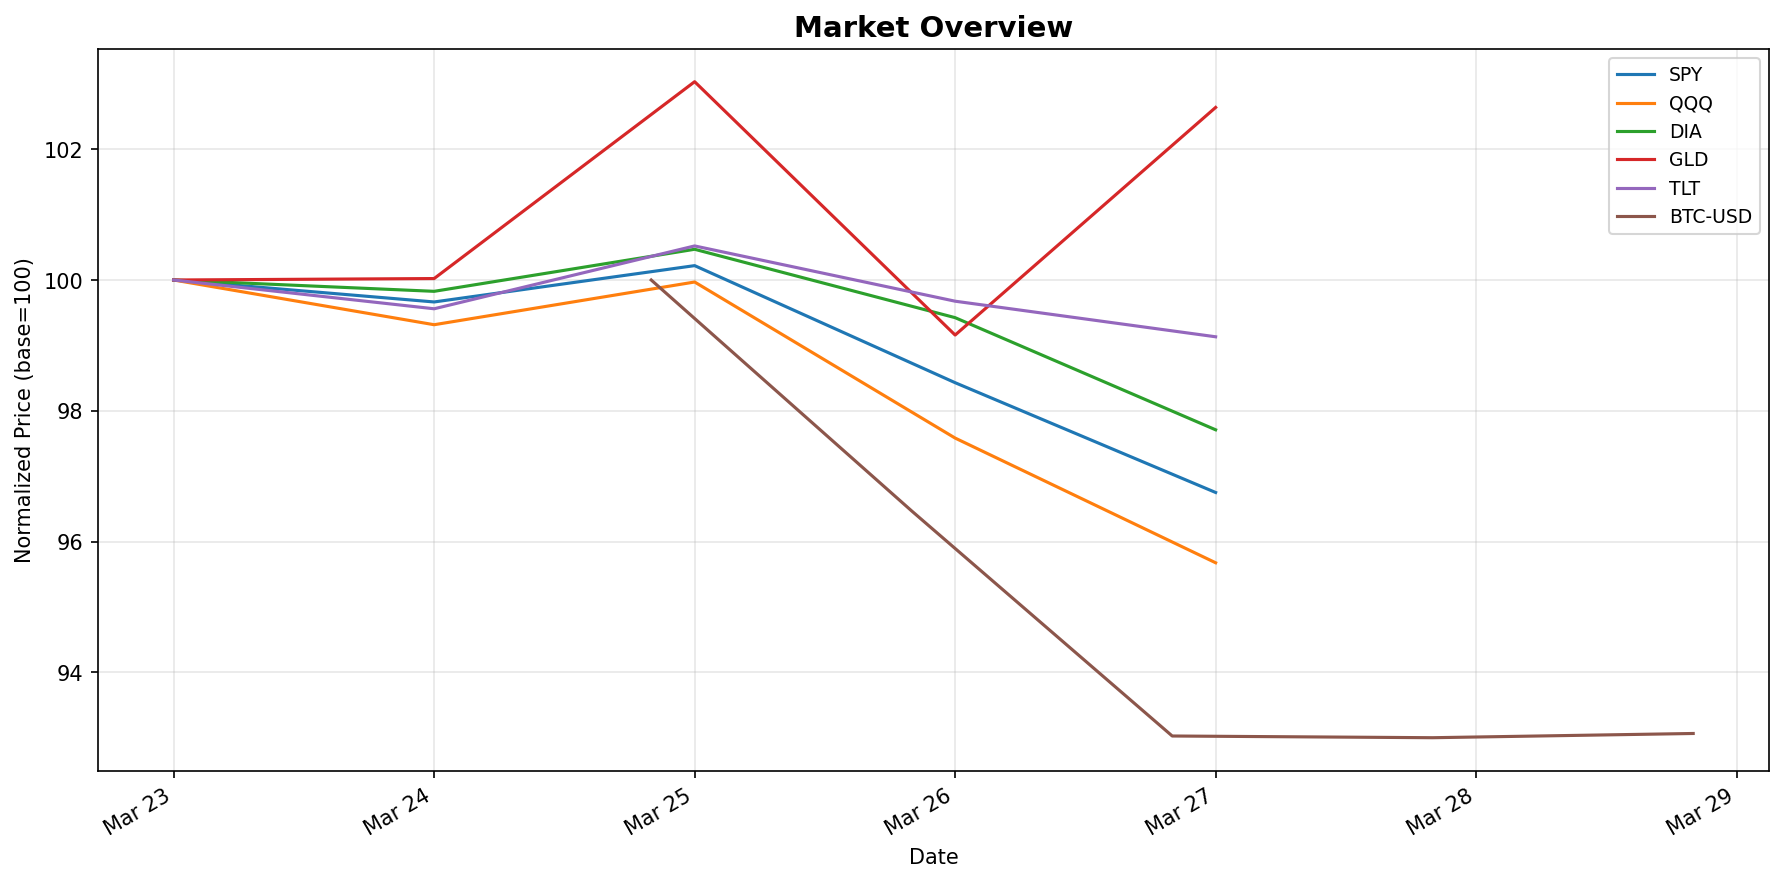
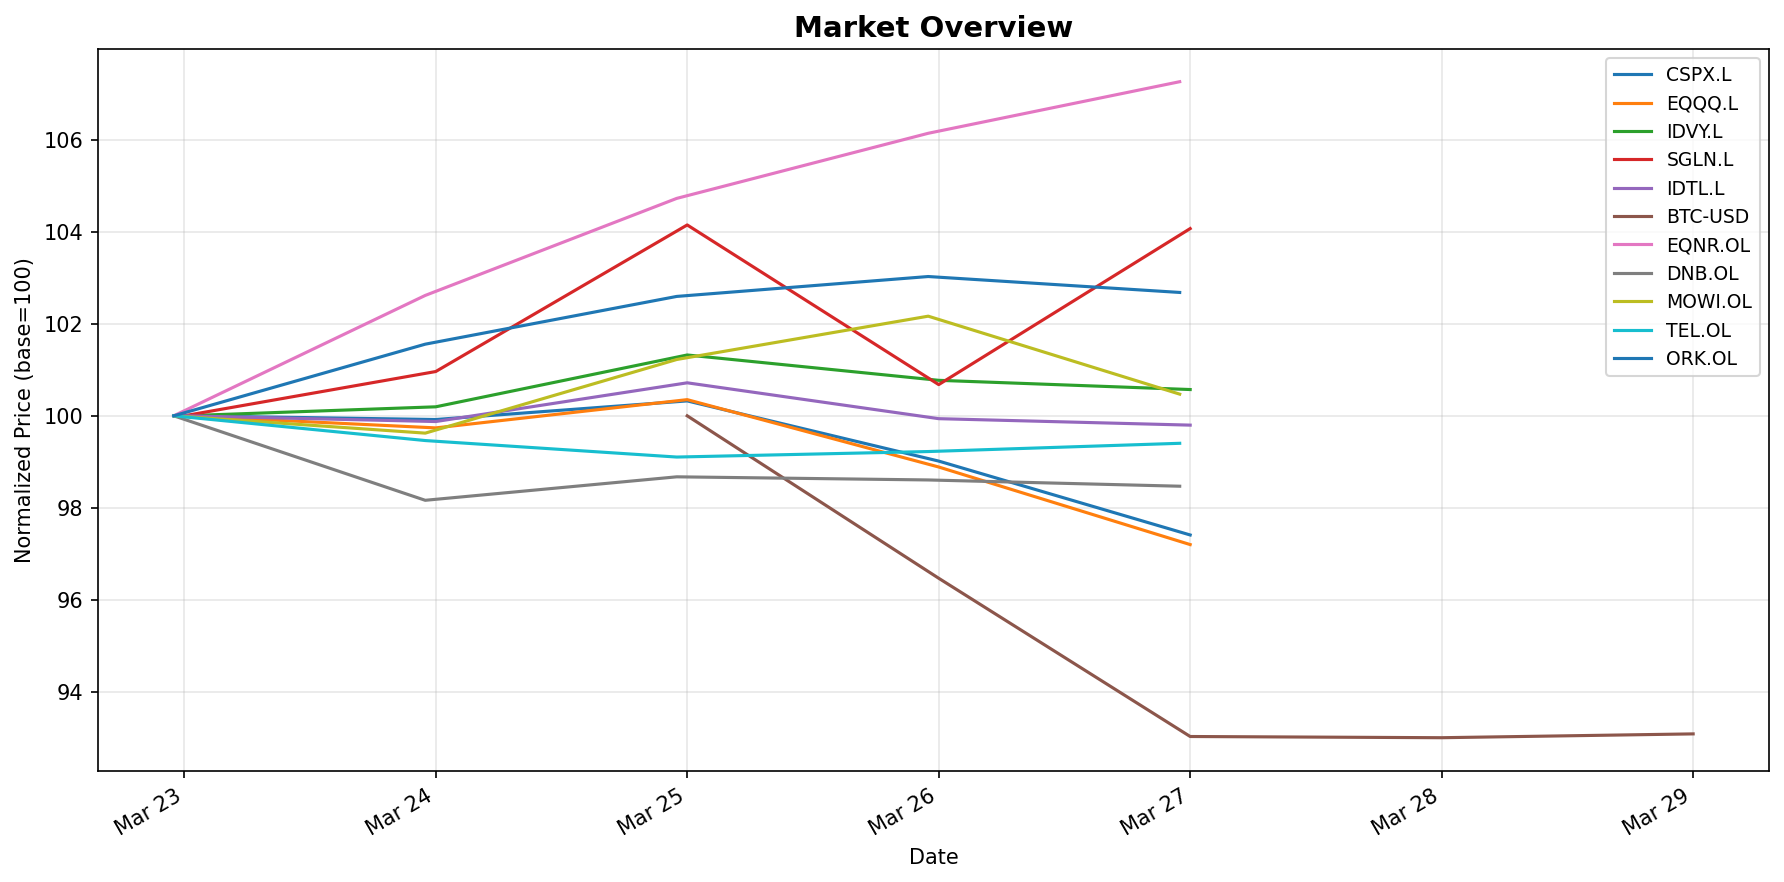
Regenerate reports with Norwegian large-cap stocks and updated European universe
Re-ran daily report (2026-03-29) and monthly portfolio (March 2026) after
adding Norwegian stocks (EQNR.OL, DNB.OL, TEL.OL, ORK.OL, MOWI.OL) to
the watchlist and portfolio universe.

diff --git a/reports/2026/03/portfolio.md b/reports/2026/03/portfolio.md
@@ -1,10 +1,24 @@
 # Monthly Portfolio Recommendation — March 2026
 
-*Generated: 2026-03-29 18:52 UTC*
+*Generated: 2026-03-29 19:21 UTC*
 
 ## Executive Summary
 
-This month's portfolio selects the top 5 securities from our universe of 15 assets, ranked by risk-adjusted momentum. All positions are equal-weighted.
+This month's portfolio selects the top 5 securities from our universe of 20 assets, ranked by risk-adjusted momentum. All positions are equal-weighted.
+
+## Portfolio Changes
+
+_No previous portfolio data found. This is the first run — all positions are new entries._
+
+### Buy (new positions)
+
+| Ticker | Name | Weight |
+|--------|------|--------|
+| EQNR.OL | Equinor | 20.0% |
+| TTE.PA | TotalEnergies | 20.0% |
+| SHEL.L | Shell | 20.0% |
+| TEL.OL | Telenor | 20.0% |
+| NOVN.SW | Novartis | 20.0% |
 
 ## Recommended Portfolio
 
@@ -12,11 +26,11 @@ This month's portfolio selects the top 5 securities from our universe of 15 asse
 
 | Rank | Ticker | Name | Last Price | Momentum | Volatility |
 |------|--------|------|-----------|----------|-----------|
-| 1 | XOM | ExxonMobil | $170.99 | +23.7% | 22.0% |
-| 2 | JNJ | Johnson & Johnson | $240.45 | +4.8% | 16.8% |
-| 3 | GLD | Gold | $414.70 | -7.4% | 29.1% |
-| 4 | AMZN | Amazon | $199.34 | -8.1% | 31.2% |
-| 5 | NVDA | Nvidia | $167.52 | -9.0% | 33.8% |
+| 1 | EQNR.OL | Equinor | $401.70 | +47.6% | 30.8% |
+| 2 | TTE.PA | TotalEnergies | $78.49 | +24.2% | 19.6% |
+| 3 | SHEL.L | Shell | $3,482.00 | +17.6% | 18.9% |
+| 4 | TEL.OL | Telenor | $166.30 | +3.1% | 20.3% |
+| 5 | NOVN.SW | Novartis | $119.14 | +1.9% | 18.7% |
 
 ## Full Universe Ranking
 
@@ -24,65 +38,26 @@ This month's portfolio selects the top 5 securities from our universe of 15 asse
 
 | Rank | Ticker | Name | Momentum | Volatility | Sharpe Proxy |
 |------|--------|------|----------|-----------|-------------|
-| 1 | XOM | ExxonMobil | +23.7% | 22.0% | 1.08 |
-| 2 | JNJ | Johnson & Johnson | +4.8% | 16.8% | 0.28 |
-| 3 | GLD | Gold | -7.4% | 29.1% | -0.25 |
-| 4 | AMZN | Amazon | -8.1% | 31.2% | -0.26 |
-| 5 | NVDA | Nvidia | -9.0% | 33.8% | -0.27 |
-| 6 | BRK-B | Berkshire Hathaway | -4.2% | 15.1% | -0.28 |
-| 7 | AAPL | Apple | -7.0% | 22.7% | -0.31 |
-| 8 | TLT | 20Y Treasuries | -3.1% | 9.6% | -0.32 |
-| 9 | JPM | JPMorgan Chase | -7.7% | 21.7% | -0.36 |
-| 10 | VNQ | Real Estate | -5.3% | 13.3% | -0.40 |
-| 11 | GOOGL | Alphabet | -11.2% | 27.5% | -0.41 |
-| 12 | QQQ | Nasdaq 100 | -7.7% | 15.8% | -0.49 |
-| 13 | META | Meta | -19.8% | 35.2% | -0.56 |
-| 14 | SPY | S&P 500 | -7.1% | 11.8% | -0.60 |
-| 15 | MSFT | Microsoft | -16.7% | 23.9% | -0.70 |
-
-## Analyst Commentary
-
-### Macro Environment
-
-March 2026 has been marked by a broad risk-off rotation. The S&P 500 (SPY) is down ~7% and the Nasdaq 100 (QQQ) ~8% over the 6-month look-back period, with technology leading the decline. Microsoft (-17%), Meta (-20%), and Alphabet (-11%) have all experienced significant drawdowns, likely reflecting a combination of elevated valuations, AI capex concerns, and macro headwinds including persistent rate pressures and trade policy uncertainty.
-
-Energy stands out as the sole strong performer, with ExxonMobil (+24%) benefiting from elevated oil prices and renewed investor preference for hard-asset producers in an inflationary/geopolitical backdrop.
-
-### Portfolio Assessment
-
-**XOM — Highest Conviction (Strong Buy)**
-Clear standout with the only meaningfully positive risk-adjusted momentum in the universe (Sharpe proxy 1.08). Energy sector leadership, strong free cash flow, and dividend support provide a durable backdrop. Macro tailwinds (geopolitics, oil demand) remain intact.
-
-**JNJ — Medium Conviction (Hold/Accumulate)**
-Defensive healthcare with low volatility (16.8%) and modest positive momentum (+4.8%). JNJ benefits from a risk-off environment as investors rotate from growth into defensives. Post-talc litigation clarity adds a fundamental catalyst.
-
-**GLD — Low-Medium Conviction (Hold)**
-Gold's negative 6-month momentum (-7.4%) is offset by its relatively low sharpe-proxy ranking being *less negative* than most of the universe. In the current macro environment — elevated uncertainty, debt concerns, and geopolitical tension — gold remains a meaningful portfolio hedge. Its inclusion reflects diversification value more than directional conviction.
-
-**AMZN — Low Conviction (Neutral)**
-Negative momentum (-8.1%) alongside high volatility (31.2%) gives a negative Sharpe proxy, but AMZN's AWS dominance and improving retail margin trajectory provide a fundamental floor. This position is more speculative — a mean-reversion bet on a high-quality name in a selloff.
-
-**NVDA — Low Conviction (Neutral)**
-NVDA's -9% momentum and 34% annualised volatility reflect the AI/semis selloff. Near-term headwinds include export restrictions and data center capex scrutiny. However, structural AI demand remains the dominant secular theme. This is a high-risk, high-reward position for investors with a longer horizon.
-
-### Risk Factors
-
-- **Broad market risk**: With 13 of 15 universe assets in negative momentum territory, this is fundamentally a defensive portfolio. A further market drawdown would test all positions.
-- **Energy concentration**: XOM dominates the portfolio in conviction. An unexpected reversal in oil prices (demand shock, policy shift) is the primary tail risk.
-- **Tech volatility**: AMZN and NVDA carry elevated volatility; position sizing should reflect this.
-- **Interest rate sensitivity**: GLD and TLT are sensitive to Fed policy surprises; any hawkish pivot could pressure both.
-
-### Conviction Summary
-
-| Ticker | Conviction | Rationale |
-|--------|-----------|-----------|
-| XOM | High | Only positive momentum, strong fundamentals |
-| JNJ | Medium | Defensive, low vol, positive momentum |
-| GLD | Low-Medium | Portfolio hedge, macro insurance |
-| AMZN | Low | Quality name in drawdown, mean-reversion |
-| NVDA | Low | Secular AI theme, high near-term risk |
-
----
+| 1 | EQNR.OL | Equinor | +47.6% | 30.8% | 1.55 |
+| 2 | TTE.PA | TotalEnergies | +24.2% | 19.6% | 1.24 |
+| 3 | SHEL.L | Shell | +17.6% | 18.9% | 0.93 |
+| 4 | TEL.OL | Telenor | +3.1% | 20.3% | 0.15 |
+| 5 | NOVN.SW | Novartis | +1.9% | 18.7% | 0.10 |
+| 6 | ASML.AS | ASML | +0.4% | 36.7% | 0.01 |
+| 7 | ORK.OL | Orkla | -1.0% | 18.5% | -0.05 |
+| 8 | DNB.OL | DNB | -1.1% | 17.4% | -0.06 |
+| 9 | IDTL.L | US Treasury 20Y UCITS | -2.6% | 10.1% | -0.26 |
+| 10 | BNP.PA | BNP Paribas | -7.6% | 27.1% | -0.28 |
+| 11 | ROG.SW | Roche | -7.2% | 24.4% | -0.29 |
+| 12 | MOWI.OL | Mowi | -6.3% | 20.9% | -0.30 |
+| 13 | SGLN.L | Physical Gold | -47.1% | 130.7% | -0.36 |
+| 14 | EQQQ.L | Nasdaq-100 UCITS | -5.7% | 15.5% | -0.37 |
+| 15 | ALV.DE | Allianz | -7.4% | 19.5% | -0.38 |
+| 16 | SIE.DE | Siemens | -14.2% | 30.9% | -0.46 |
+| 17 | CSPX.L | S&P 500 UCITS | -6.4% | 11.7% | -0.55 |
+| 18 | SAP.DE | SAP | -21.2% | 34.8% | -0.61 |
+| 19 | MC.PA | LVMH | -19.1% | 30.8% | -0.62 |
+| 20 | IPRP.L | European Property UCITS | -11.1% | 15.1% | -0.73 |
 
 ## Methodology
 

diff --git a/reports/2026/03/29/daily_report.md b/reports/2026/03/29/daily_report.md
@@ -1,17 +1,22 @@
 # Daily Investment Report — March 29, 2026
 
-*Generated: 2026-03-29 18:50 UTC*
+*Generated: 2026-03-29 19:20 UTC*
 
 ## Market Summary
 
 | Ticker | Last Close | 5-Day Change |
 |--------|-----------|-------------|
-| SPY | 634.09 | -3.25% |
-| QQQ | 562.58 | -4.32% |
-| DIA | 451.39 | -2.29% |
-| GLD | 414.70 | +2.64% |
-| TLT | 85.64 | -0.87% |
-| BTC-USD | 66,365.83 | -6.93% |
+| CSPX.L | 688.84 | -2.59% |
+| EQQQ.L | 42,881.00 | -2.80% |
+| IDVY.L | 2,008.00 | +0.57% |
+| SGLN.L | 65.97 | +4.07% |
+| IDTL.L | 3.20 | -0.20% |
+| BTC-USD | 66,378.96 | -6.91% |
+| EQNR.OL | 401.70 | +7.26% |
+| DNB.OL | 289.50 | -1.53% |
+| MOWI.OL | 213.40 | +0.47% |
+| TEL.OL | 166.30 | -0.60% |
+| ORK.OL | 118.70 | +2.68% |
 
 ## Price Performance (5-Day)
 
@@ -25,28 +30,12 @@
 
 | Sector | ETF | Daily Return |
 |--------|-----|-------------|
-| Technology | XLK | -1.95% |
-| Healthcare | XLV | -1.70% |
-| Financials | XLF | -2.53% |
-| Energy | XLE | +1.69% |
-| Consumer Discretionary | XLY | -2.89% |
-| Utilities | XLU | +0.57% |
-
-## Market Commentary — March 29, 2026
-
-**Risk-off tone dominates to close the week.** Equities sold off broadly across the 5-day period, with growth and cyclical sectors leading the decline. The pattern is consistent with institutional de-risking ahead of anticipated macro headwinds.
-
-**Key observations:**
-
-- **Broad equity weakness**: SPY (-3.25%), QQQ (-4.32%), and DIA (-2.29%) all posted meaningful 5-day losses. The Nasdaq underperforming the Dow by roughly 200 bps suggests continued pressure on high-duration tech and growth assets — likely a repricing of rate-cut expectations.
-
-- **Gold surges as safe-haven demand rises**: GLD up +2.64% over the week stands out as the clearest signal of defensive repositioning. Notably, gold and bonds are diverging — TLT is down -0.87% — suggesting the flight is to inflation-protected hard assets rather than a pure flight-to-quality. This is consistent with a "stagflation fear" narrative.
-
-- **Bitcoin selloff mirrors risk assets**: BTC-USD down -6.93% over 5 days tracks closely with the QQQ, reinforcing the view that crypto continues to trade as a high-beta risk asset rather than a hedge.
-
-- **Defensive sector rotation confirmed**: Energy (+1.69%) and Utilities (+0.57%) are the only sector ETFs in the green on a daily basis. Financials (-2.53%) and Consumer Discretionary (-2.89%) are the biggest daily laggards, which aligns with concerns about lending conditions and consumer spending resilience.
-
-**Outlook**: The combination of gold strength, equity weakness, and a flat-to-down bond market suggests the market is navigating a difficult macro backdrop with persistent inflation fears alongside growth concerns. Sectors with pricing power (Energy) and regulated income streams (Utilities) are likely to continue outperforming near-term. Watch for any Fed commentary or macro data releases next week that could shift the rate expectations narrative.
+| Technology | EXV5.DE | -0.57% |
+| Healthcare | EXV4.DE | +0.07% |
+| Financials | EXV1.DE | -0.78% |
+| Energy | EXV2.DE | -1.14% |
+| Consumer Disc. | EXH3.DE | -0.17% |
+| Utilities | EXV3.DE | -1.99% |
 
 ---
 *Data sourced from Yahoo Finance via yfinance. Not financial advice.*
